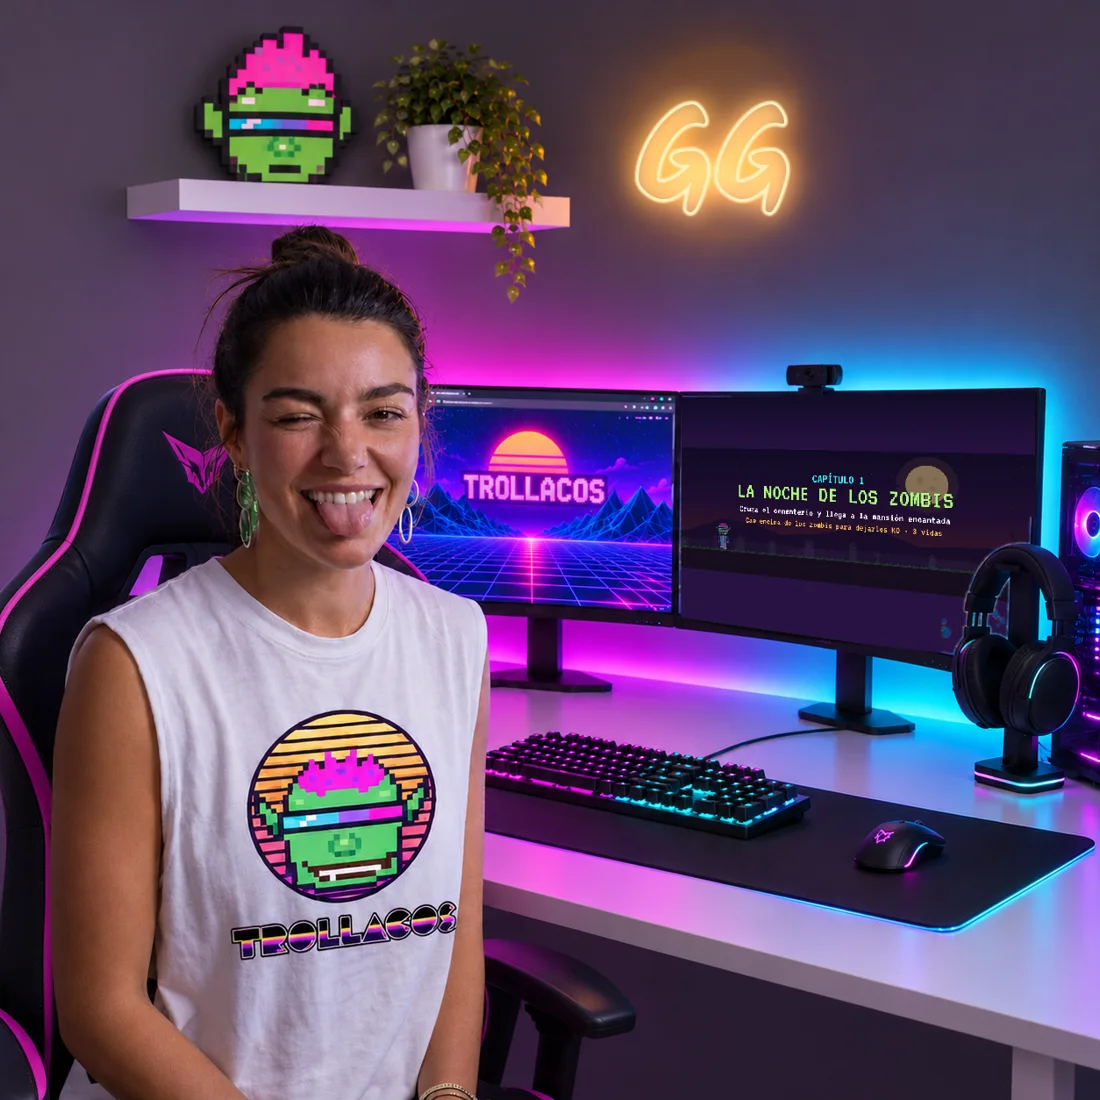
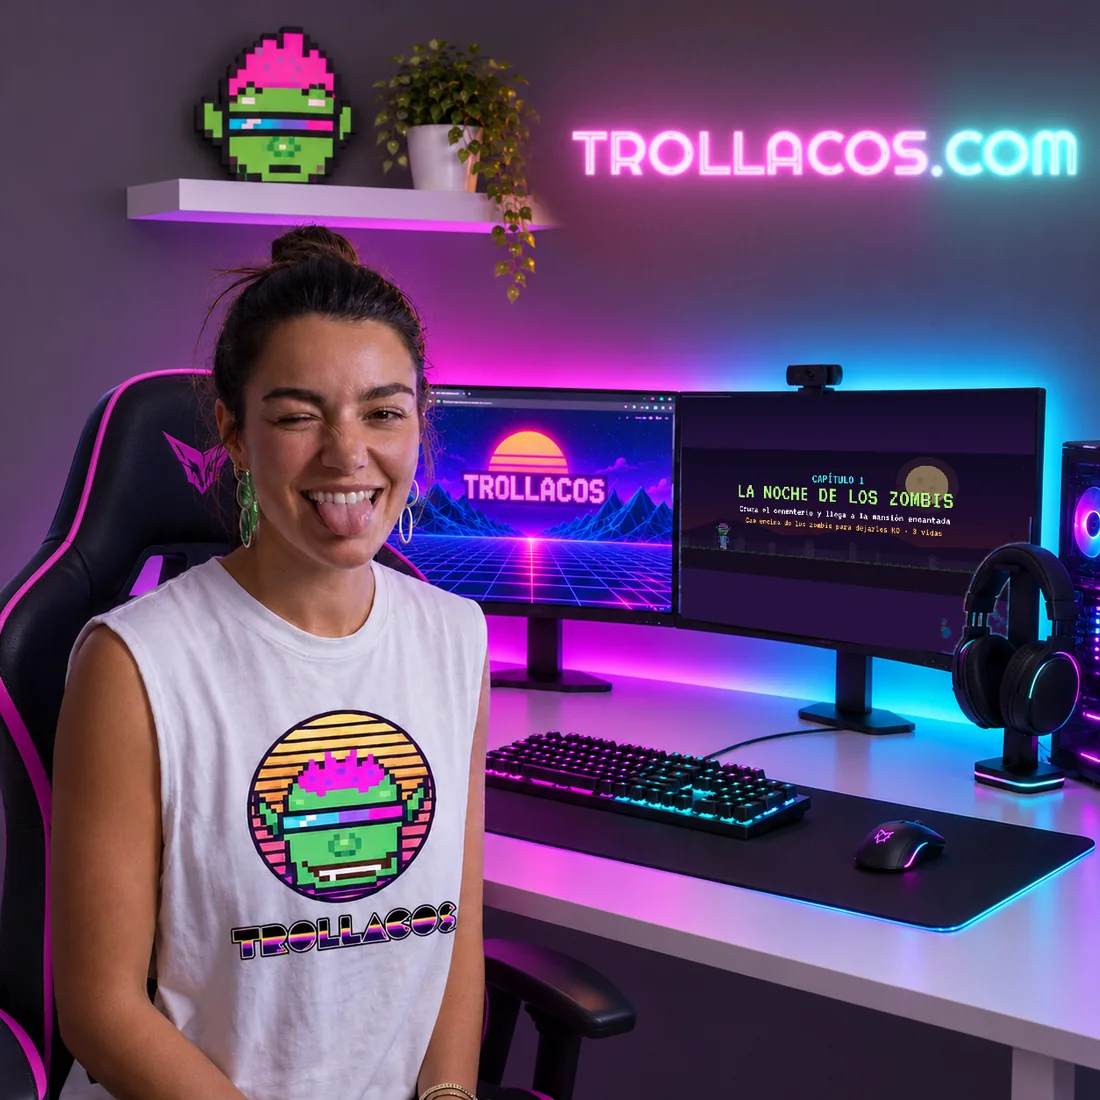
Danna: neón «TROLLACOS.COM» en vez de «GG» en la foto del setup
La foto de /danna/ (img/danna-setup.webp?v=2) lleva el neón nuevo en rosa con
«.COM» cian. La versión con «GG» queda en _fuentes/lucy/danna-setup-gg-anterior.png
y el script del retoque en _fuentes/lucy/neon-trollacos.py.

Claude-Session: https://claude.ai/code/session_01AwSxwHW7oEyn1azaHvpghN

Changed region(s): [[0.4636, 0.0309, 1.0, 0.2164]]

diff --git a/danna/index.html b/danna/index.html
@@ -3,7 +3,7 @@
 <title>Danna, reportera de Trollacos: gaming, redes y eventos | Trollacos</title>
 <meta name="description" content="Quién es Danna, la reportera de Trollacos: noticias de GTA VI y videojuegos, tecnología, redes sociales, streamings y eventos. Con guasa y sin rodeos.">
 <link rel="canonical" href="https://trollacos.com/danna/">
-<meta property="og:title" content="Danna, la reportera de Trollacos"><meta property="og:image" content="https://trollacos.com/img/danna-setup.webp">
+<meta property="og:title" content="Danna, la reportera de Trollacos"><meta property="og:image" content="https://trollacos.com/img/danna-setup.webp?v=2">
 <link rel="icon" href="/icono.png">
 <style>
 @font-face{font-family:'Righteous';src:url(/fuentes/righteous.woff2) format('woff2');font-display:swap}
@@ -137,7 +137,7 @@ footer a{font-family:'VT323',monospace;font-size:22px;color:var(--cyan);text-dec
   <p class="k">&gt; FICHA DE LA REDACCIÓN_</p>
   <h1>Danna</h1>
   <p class="cargo">Editora de gaming, redes y tendencias · Tu reportera del otro lado de la pantalla</p>
-  <figure class="foto"><img src="/img/danna-setup.webp" alt="Danna en su setup" width="1100" height="1100"></figure>
+  <figure class="foto"><img src="/img/danna-setup.webp?v=2" alt="Danna en su setup" width="1100" height="1100"></figure>
   <p><strong>Danna</strong> es la cara fresca, rápida y con el mando siempre cargado de Trollacos. Se encarga de contarte lo último de los videojuegos y la tecnología antes que tu primo «el que se entera de todo», y de que en nuestras redes nunca falte el salseo. Si el Dr. Aris V. Torres es el archivo polvoriento de los misterios, Danna es la notificación que te vibra en el bolsillo.</p>
   <ul class="ficha-d">
     <li><b>📍 Base de operaciones</b>Un setup rosa y cian con más ledes que una feria</li>

diff --git a/_fuentes/lucy/neon-trollacos.py b/_fuentes/lucy/neon-trollacos.py
@@ -1,0 +1,67 @@
+"""Cambia el neón «GG» de la foto de Danna por «TROLLACOS.COM» (rosa + .COM cian).
+righteous.ttf: convertir fuentes/righteous.woff2 con fontTools (+ brotli)."""
+import numpy as np, cv2
+from PIL import Image, ImageDraw, ImageFont
+
+SRC = '_fuentes/lucy/danna-setup-gg-anterior.png'  # foto original con el «GG»
+im = np.asarray(Image.open(SRC).convert('RGB')).astype(np.float32) / 255
+H, W, _ = im.shape
+yy, xx = np.mgrid[0:H, 0:W]
+
+# 1) Borrar el «GG»: pared modelada con un polinomio ajustado alrededor
+cx, cy = 812, 180
+def ell(rx, ry): return ((xx - cx) / rx) ** 2 + ((yy - cy) / ry) ** 2
+zona = ell(235, 165) < 1
+anillo = (ell(300, 215) < 1) & ~zona & (xx > 640) & (yy < 395)
+g = im[..., 1]; r = im[..., 0]
+anillo &= ~((g > r + 0.05))  # fuera hojas verdes
+def base(x, y):
+    x = (x - 900) / 300; y = (y - 200) / 200
+    return np.stack([np.ones_like(x), x, y, x * x, x * y, y * y, x ** 3, y ** 3], -1)
+A = base(xx[anillo].astype(np.float32), yy[anillo].astype(np.float32))
+fit = np.zeros_like(im)
+B = base(xx.astype(np.float32), yy.astype(np.float32))
+for c in range(3):
+    coef, *_ = np.linalg.lstsq(A, im[..., c][anillo], rcond=None)
+    fit[..., c] = B @ coef
+rng = np.random.default_rng(1)
+ruido = cv2.GaussianBlur(rng.normal(0, 0.012, (H, W)).astype(np.float32), (0, 0), 0.8)[..., None]
+pared = fit + ruido
+# máscara suave para fundir
+m = np.clip((1 - ell(235, 165)) / 0.25, 0, 1)
+m = cv2.GaussianBlur(m.astype(np.float32), (0, 0), 6)[..., None]
+out = im * (1 - m) + pared * m
+
+# 2) Neón «TROLLACOS.COM» con la Righteous de la web
+TXT = 'TROLLACOS.COM'
+font = ImageFont.truetype('righteous.ttf', 70)
+tmp = Image.new('L', (W, H)); d = ImageDraw.Draw(tmp)
+bx = d.textbbox((0, 0), TXT, font=font)
+tw, th = bx[2] - bx[0], bx[3] - bx[1]
+X0 = 655 + (1230 - 655 - tw) // 2 - bx[0]; Y0 = 175 - th // 2 - bx[1]
+d.text((X0, Y0), TXT, font=font, fill=255)
+lleno = np.asarray(tmp).astype(np.float32) / 255
+# tubo = contorno de las letras
+k = np.ones((3, 3), np.uint8)
+ero = cv2.erode((lleno > 0.5).astype(np.uint8), k, iterations=4)
+tubo = np.clip(lleno - ero.astype(np.float32), 0, 1)
+tubo = cv2.GaussianBlur(tubo, (0, 0), 1.1)
+tubo = tubo / tubo.max()
+
+col_nucleo = np.array([1.0, 0.92, 0.98])
+col_brillo = np.array([1.0, 0.17, 0.84])
+# «.COM» en cian
+corte = X0 + d.textbbox((X0, Y0), 'TROLLACOS', font=font)[2] - X0
+cian = (xx >= corte).astype(np.float32)
+g1 = cv2.GaussianBlur(tubo, (0, 0), 4)
+g2 = cv2.GaussianBlur(tubo, (0, 0), 16)
+g3 = cv2.GaussianBlur(tubo, (0, 0), 60)
+mix = cv2.GaussianBlur(cian, (0, 0), 25)[..., None]
+cb = col_brillo * (1 - mix) + np.array([0.12, 0.95, 1.0]) * mix
+glow = (g1 * 1.6 + g2 * 2.4 + g3 * 5.0)[..., None] * cb
+out = 1 - (1 - out) * (1 - np.clip(glow * 0.55, 0, 1))  # screen
+cn = col_nucleo * (1 - cian[..., None]) + np.array([0.88, 1.0, 1.0]) * cian[..., None]
+out = out * (1 - tubo[..., None]) + cn * tubo[..., None]
+out = np.clip(out, 0, 1)
+Image.fromarray((out * 255).astype(np.uint8)).save('_fuentes/lucy/danna-setup-trollacos.png')
+print(tw, th, X0, Y0)

diff --git a/_fuentes/generadores/danna.py b/_fuentes/generadores/danna.py
@@ -33,7 +33,7 @@ page = f'''<!doctype html>
 <title>Danna, reportera de Trollacos: gaming, redes y eventos | Trollacos</title>
 <meta name="description" content="Quién es Danna, la reportera de Trollacos: noticias de GTA VI y videojuegos, tecnología, redes sociales, streamings y eventos. Con guasa y sin rodeos.">
 <link rel="canonical" href="https://trollacos.com/danna/">
-<meta property="og:title" content="Danna, la reportera de Trollacos"><meta property="og:image" content="https://trollacos.com/img/danna-setup.webp">
+<meta property="og:title" content="Danna, la reportera de Trollacos"><meta property="og:image" content="https://trollacos.com/img/danna-setup.webp?v=2">
 <link rel="icon" href="/icono.png">
 {style.replace('</style>', extra)}
 </head><body>
@@ -43,7 +43,7 @@ page = f'''<!doctype html>
   <p class="k">&gt; FICHA DE LA REDACCIÓN_</p>
   <h1>Danna</h1>
   <p class="cargo">Editora de gaming, redes y tendencias · Tu reportera del otro lado de la pantalla</p>
-  <figure class="foto"><img src="/img/danna-setup.webp" alt="Danna en su setup" width="1100" height="1100"></figure>
+  <figure class="foto"><img src="/img/danna-setup.webp?v=2" alt="Danna en su setup" width="1100" height="1100"></figure>
   <p><strong>Danna</strong> es la cara fresca, rápida y con el mando siempre cargado de Trollacos. Se encarga de contarte lo último de los videojuegos y la tecnología antes que tu primo «el que se entera de todo», y de que en nuestras redes nunca falte el salseo. Si el Dr. Aris V. Torres es el archivo polvoriento de los misterios, Danna es la notificación que te vibra en el bolsillo.</p>
   <ul class="ficha-d">
     <li><b>📍 Base de operaciones</b>Un setup rosa y cian con más ledes que una feria</li>

diff --git a/CLAUDE.md b/CLAUDE.md
@@ -65,7 +65,7 @@ Capturas y renders con Playwright: `chromium.launch({executablePath:'/opt/pw-bro
 - Las fichas **no tienen valor real**: no se compran ni se canjean. Nada de premios ligados a la Porra (ley del juego). Si hay premios, que sean de habilidad en el arcade, con bases legales.
 - Merch: sin diseños de Halloween. Diseños finales en `_fuentes/merch/` (`spread2/` prenda oscura, `spread-blanca/` y la espalda "celeste" para prendas claras; máximo 4000 px para Spreadshop). Logo solo "TROLLACOS", sin ".com".
 - **Danna** (antes Lucy Lag; Guillermo la renombró el 31 oct): reportera de Trollacos, personaje ficticio y siempre declarado como tal (nunca hacerla pasar por una persona real). Versión pixel antigua (Lucy): unos 30 años, divertida, cascos gamer con micro, gafas retro, pelo morado, chaqueta rosa con acreditación. Sprite y foto de perfil en `_fuentes/lucy/`. Cuenta de Instagram propia de Guillermo.
-  Versión realista: Guillermo la ha generado 100 % con IA (no es ninguna persona real). Declarada como IA en la bio ("🤖 Reportera virtual IA") + etiqueta "Información de IA" de Instagram al subir; Guillermo no quiere repetirlo en el texto/vídeo de cada post. Las sube él a mano a su cuenta. Reels en `_fuentes/lucy/reel-presentacion/` (`reel.html` presentación, `noticia.html#n` plantilla «Danna informa»: `node render2.js 'noticia.html#0' 15 carpeta` + `musica.py salida.wav 15 transporte 12.6` + ffmpeg). Firma todas las noticias de la web («Por Danna · Tu reportera del otro lado de la pantalla · ¿Quién es?», que lleva a la nota #danna de /gta-6/noticias/; avatar `img/danna.jpg`); Instagram @dannapixel (`DANNA_IG` en `noticias_gta.py`): enlace en la firma, en la portada y en la tarjeta grande «Esta noticia te la ha contado» al final de cada noticia. **Desde el 3 nov, Danna nueva y más madura** (la anterior le parecía infantil): moño, camiseta blanca de tirantes con el logo Trollacos, guiño con la lengua fuera, setup ordenado rosa/cian con el Trollaco en la balda, neón «GG» (era Pac-Man) y Trollaco Run en el monitor (era Fortnite); original retocado en `_fuentes/lucy/danna-setup-trollacos.png`, avatar `img/danna.jpg` (cara + logo de la camiseta), el anterior guardado en `_fuentes/lucy/danna-avatar-anterior.jpg`. Misma cara siempre, nada de logos de marcas reales en la ropa, nada sexual. Habla cercana, gamer, con humor y piques con el Trollaco; sus posts mandan a trollacos.com/gta-6/noticias/.
+  Versión realista: Guillermo la ha generado 100 % con IA (no es ninguna persona real). Declarada como IA en la bio ("🤖 Reportera virtual IA") + etiqueta "Información de IA" de Instagram al subir; Guillermo no quiere repetirlo en el texto/vídeo de cada post. Las sube él a mano a su cuenta. Reels en `_fuentes/lucy/reel-presentacion/` (`reel.html` presentación, `noticia.html#n` plantilla «Danna informa»: `node render2.js 'noticia.html#0' 15 carpeta` + `musica.py salida.wav 15 transporte 12.6` + ffmpeg). Firma todas las noticias de la web («Por Danna · Tu reportera del otro lado de la pantalla · ¿Quién es?», que lleva a la nota #danna de /gta-6/noticias/; avatar `img/danna.jpg`); Instagram @dannapixel (`DANNA_IG` en `noticias_gta.py`): enlace en la firma, en la portada y en la tarjeta grande «Esta noticia te la ha contado» al final de cada noticia. **Desde el 3 nov, Danna nueva y más madura** (la anterior le parecía infantil): moño, camiseta blanca de tirantes con el logo Trollacos, guiño con la lengua fuera, setup ordenado rosa/cian con el Trollaco en la balda, neón «TROLLACOS.COM» en rosa con «.COM» cian (5 nov: antes «GG», y antes Pac-Man; cambiado con `_fuentes/lucy/neon-trollacos.py`, la foto con el «GG» queda en `_fuentes/lucy/danna-setup-gg-anterior.png`; en la web va como `img/danna-setup.webp?v=2`) y Trollaco Run en el monitor (era Fortnite); original retocado en `_fuentes/lucy/danna-setup-trollacos.png`, avatar `img/danna.jpg` (cara + logo de la camiseta), el anterior guardado en `_fuentes/lucy/danna-avatar-anterior.jpg`. Misma cara siempre, nada de logos de marcas reales en la ropa, nada sexual. Habla cercana, gamer, con humor y piques con el Trollaco; sus posts mandan a trollacos.com/gta-6/noticias/.
 - **Cada sección tiene su firma** (idea de Guillermo, 4 nov). **Dr. Aris V. Torres** firma el Expediente Trollaco: investigador de los misterios (historia antigua, antropología, arqueología, ovnis, paranormal), «llega del otro lado». Personaje de ficción creado por Guillermo con IA; Guillermo no quiere que se repita en cada página que es ficticio (4 nov), y el 4 nov pidió quitarlo también del aviso legal: no se declara en ningún sitio (solo figura en la lista de personajes protegidos de «Propiedad intelectual»); ficha /misterio/aris-v-torres/; **no se le atribuyen títulos de universidades reales** para no dar falsa autoridad. Avatar `img/aris.jpg`, despacho `misterio/img/aris-despacho.webp` (original en `_fuentes/misterio-originales/aris-v-torres.jpg`). Firma arriba y tarjeta «Este expediente lo ha investigado» abajo en cada expediente (`expedientes.py`), y «Investiga: el Dr. Aris V. Torres» en el bloque de portada. Danna sigue firmando GTA VI y Tecnología. **Héctor «El Caimán» Varga** firma Cine (personaje de Guillermo hecho con IA; mismas reglas que Aris: no se declara ficticio en cada página, sin títulos reales, sin logos ni pósteres reales en sus imágenes).
 - Nada de contenido sexual (descartada la chica de la barra). La **Princesa Neón** del arcade tiene preparada una versión en bikini de playa para el gran final (lo pidió Guillermo el 1 nov): pixel, cómica (corona, gafas neón, flotador de pato), sin poses ni nada insinuante.
 - **Historia del arcade** (`HISTORIA` en `arcade/index.html`, diálogos al empezar y al acabar cada capítulo; se saltan con SALTAR o Esc): Míster Glitch secuestra a la Princesa Neón en la fiesta de la mansión (cap. 1, «La noche de los zombis») → nota «me la llevo al Bar La Verja» → el camarero «¡NO GRITÉIS!» y las bravas sin pagar → Trollaco Club → edificio abandonado (fantasma pide un cargador) → huida por la M-30 (cap. 5: coches y bots se pisan, las motos de la Policía Municipal no) → Glitch se escapa otra vez con la princesa (suspense). **La historia sigue abierta: Guillermo no quiere final todavía; cada capítulo nuevo continúa la trama sin adelantar el desenlace.** El rescate y la fiesta en la «playa» de Madrid Río (`playaFinal`, `princesa()`) están hechos pero sin usar, para el último capítulo.
